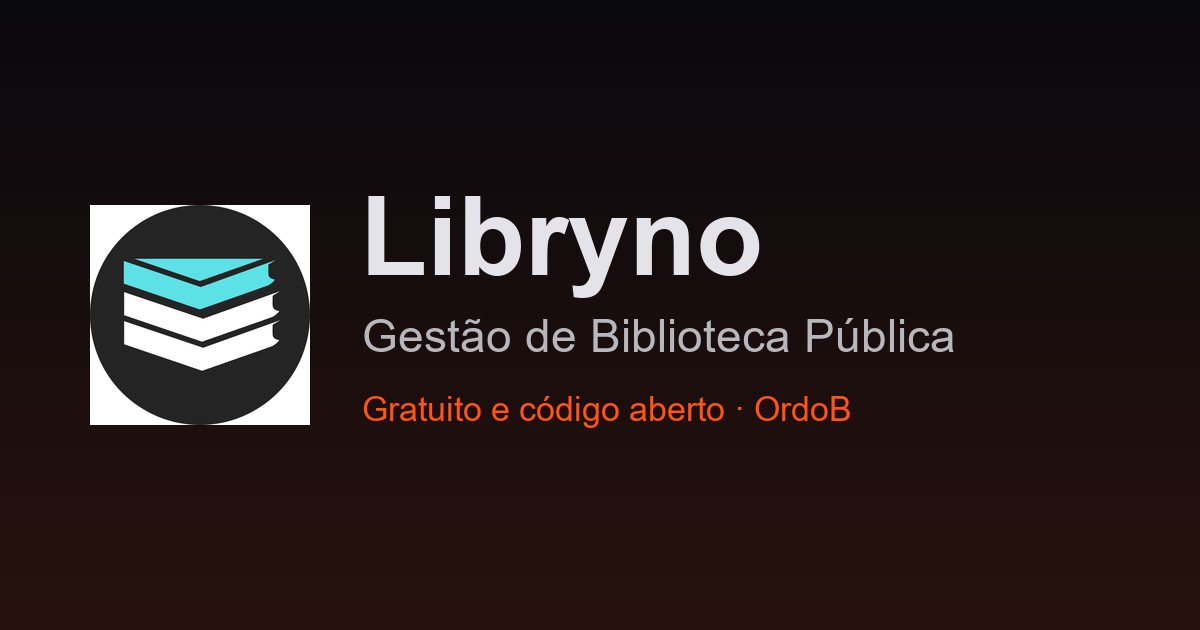
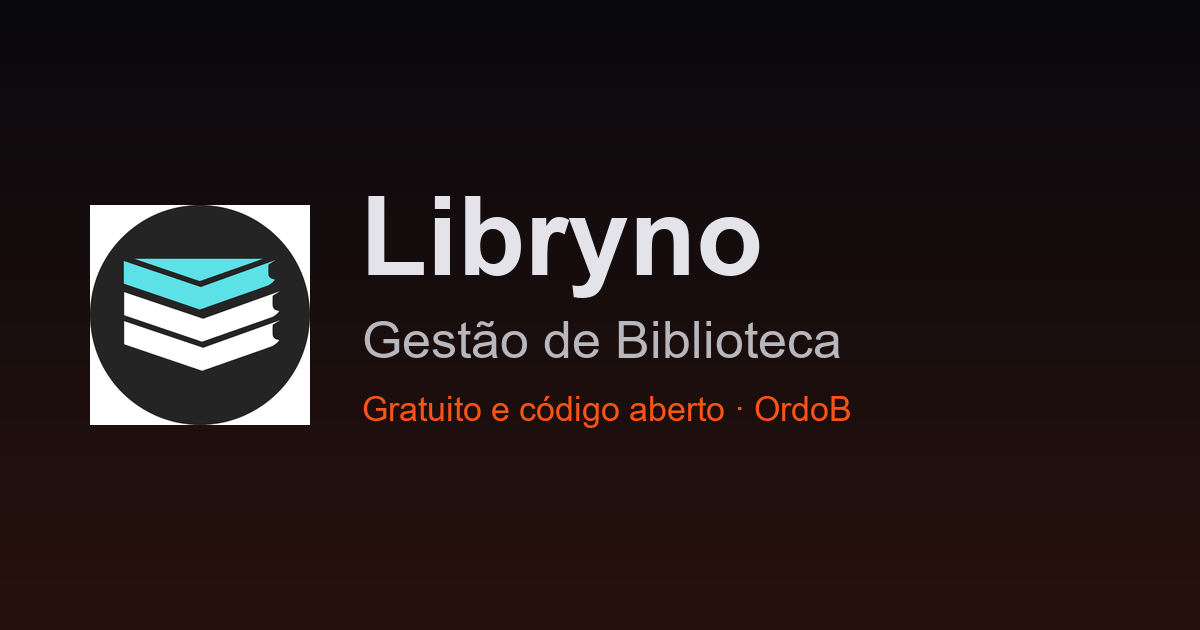
chore: marca Libryno (ícone branco SVG) e posicionamento 'Biblioteca' (pública+privada)
- Gera icon.svg/logo.svg traçados dos PNGs originais (marching squares + RDP, fidelidade 99%)
- Favicon e logo do site usam o ícone branco da marca
- Manifiest/README/docstrings/desktop: 'Biblioteca Pública' -> 'Biblioteca' (alcance geral)
- og-image.png atualizado ('Gestão de Biblioteca')

Changed region(s): [[0.3083, 0.4825, 0.8017, 0.573]]

diff --git a/packaging/index.html b/packaging/index.html
@@ -101,6 +101,9 @@
         border-radius: 8px; display: flex; align-items: center; justify-content: center;
         font-size: 18px;
       }
+      .logo-icon img {
+        width: 22px; height: 22px; display: block;
+      }
       .logo span { color: #FE5416; }
 
       nav a {
@@ -231,7 +234,7 @@
     <header>
       <div class="header-container">
         <a href="/" class="logo">
-          <div class="logo-icon">📚</div>
+          <div class="logo-icon"><img src="/icon.svg" alt="Libryno" /></div>
           <span>Libryno</span>
         </a>
         <nav>

diff --git a/src/__init__.py b/src/__init__.py
@@ -2,7 +2,7 @@
 LIBRYNO v2.0 - Sistema de Gestão de Biblioteca
 ==============================================
 
-Sistema desktop para gerenciamento de bibliotecas públicas,
+Sistema desktop para gerenciamento de bibliotecas,
 desenvolvido com PySide6 e integrado ao ecossistema OrdoB.
 
 Funcionalidades:

diff --git a/README.md b/README.md
@@ -1,6 +1,6 @@
 # LIBRYNO v2.0
 
-Sistema de Gestão de Biblioteca Pública integrado ao ecossistema **OrdoB**.
+Sistema de Gestão de Biblioteca integrado ao ecossistema **OrdoB**.
 
 ## Instalação
 
